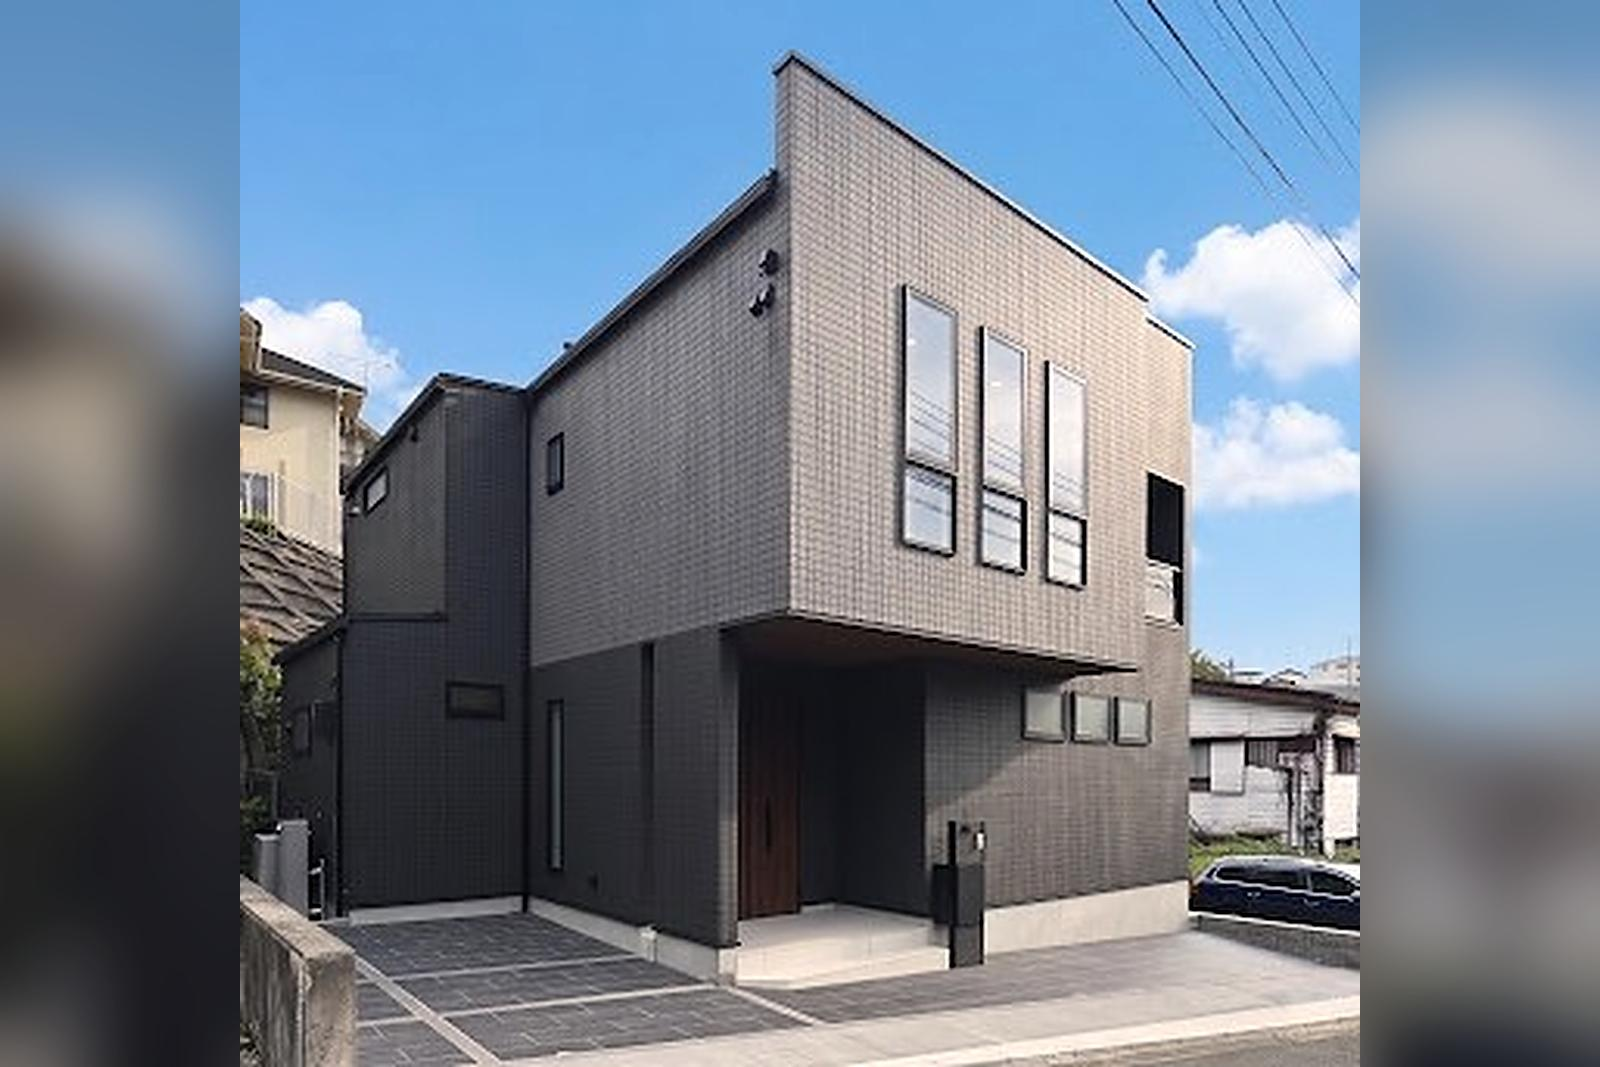
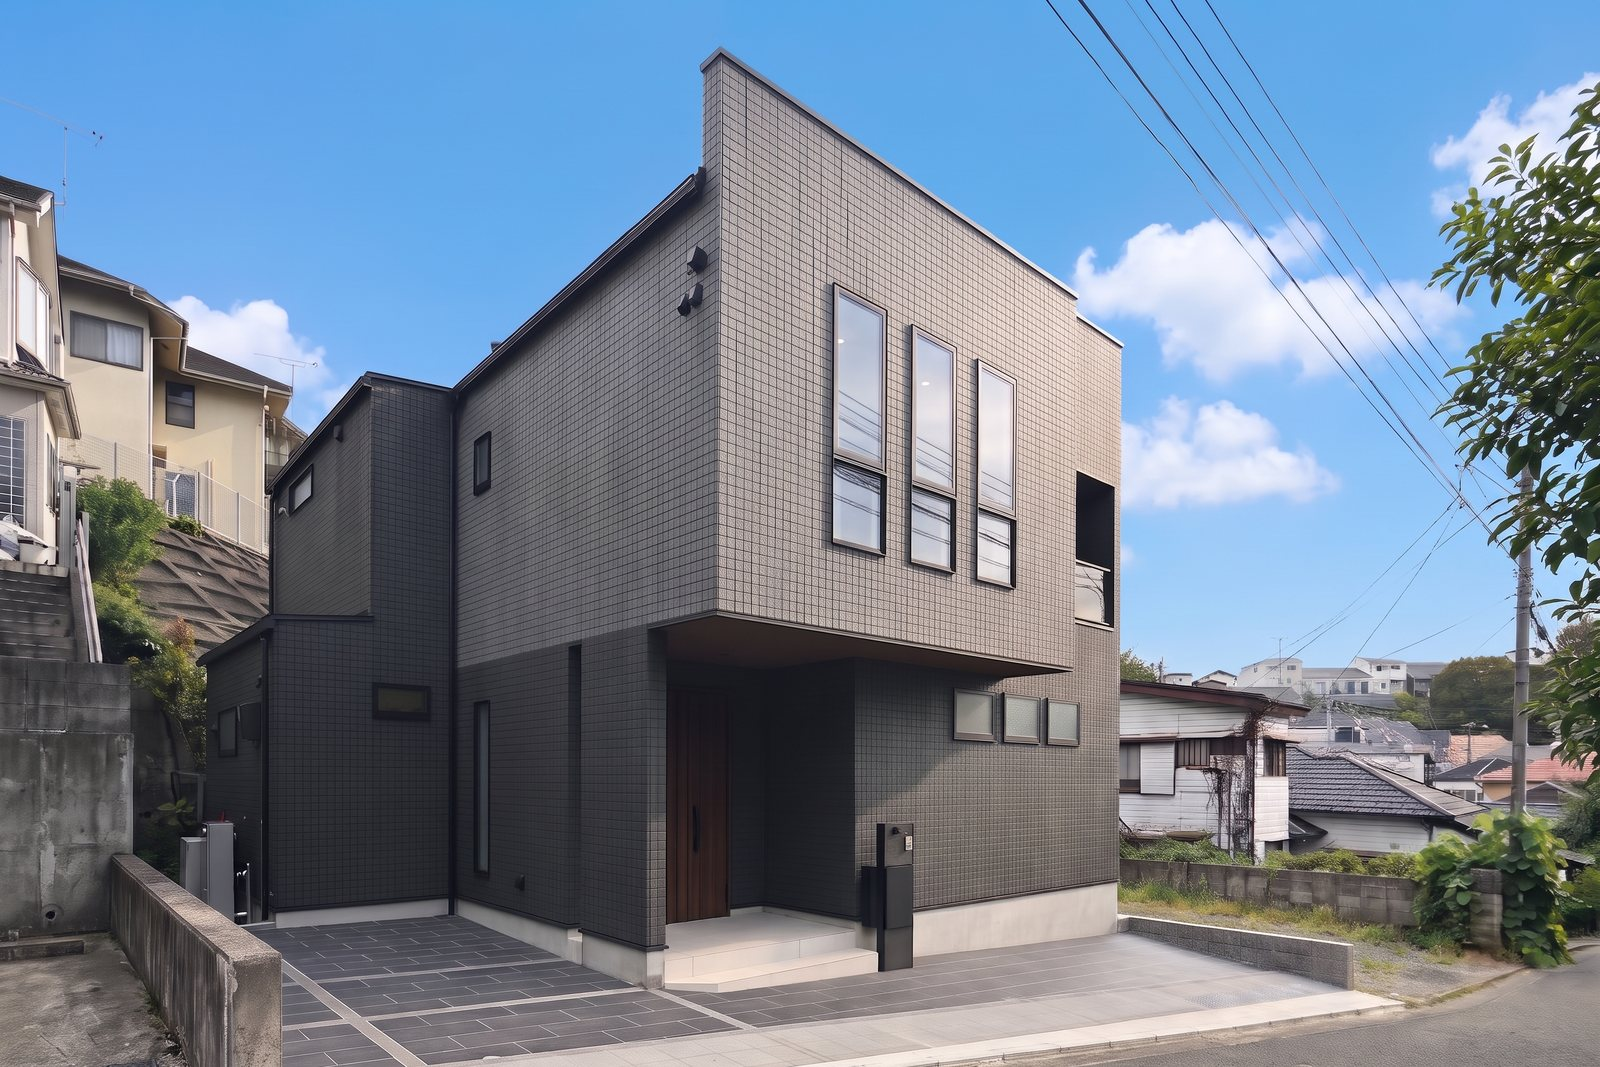
kikuna-2b：ギャラリーの外観写真を画像4の新しい写真に入れ替え

diff --git a/kikuna-2b/index.html b/kikuna-2b/index.html
@@ -181,7 +181,7 @@
     <div class="gal__slider" data-gallery>
       <div class="gal__track">
           <figure class="gal__slide" data-i="0" data-en="EXTERIOR" data-jp="外観" data-note="" tabindex="0" role="button" aria-label="外観の写真を拡大">
-            <img src="img/gallery/g_01_800.jpg?v=2" srcset="img/gallery/g_01_800.jpg?v=2 800w, img/gallery/g_01_1200.jpg?v=2 1200w, img/gallery/g_01_1600.jpg?v=2 1600w" sizes="(min-width: 1200px) 1008px, 84vw" width="1600" height="1067" alt="外観" loading="lazy" decoding="async"></figure>
+            <img src="img/gallery/g_01_800.jpg?v=3" srcset="img/gallery/g_01_800.jpg?v=3 800w, img/gallery/g_01_1200.jpg?v=3 1200w, img/gallery/g_01_1600.jpg?v=3 1600w" sizes="(min-width: 1200px) 1008px, 84vw" width="1600" height="1067" alt="外観" loading="lazy" decoding="async"></figure>
           <figure class="gal__slide" data-i="1" data-en="LIVING &amp; DINING" data-jp="キッチンから見たLDK" data-note="" tabindex="0" role="button" aria-label="キッチンから見たLDKの写真を拡大">
             <img src="img/gallery/g_02_800.jpg" srcset="img/gallery/g_02_800.jpg 800w, img/gallery/g_02_1200.jpg 1200w, img/gallery/g_02_1600.jpg 1600w" sizes="(min-width: 1200px) 1008px, 84vw" width="1600" height="1067" alt="キッチンから見たLDK" loading="lazy" decoding="async"></figure>
           <figure class="gal__slide" data-i="2" data-en="LIVING &amp; STAIRCASE" data-jp="LDKと鉄骨階段" data-note="" tabindex="0" role="button" aria-label="LDKと鉄骨階段の写真を拡大">
